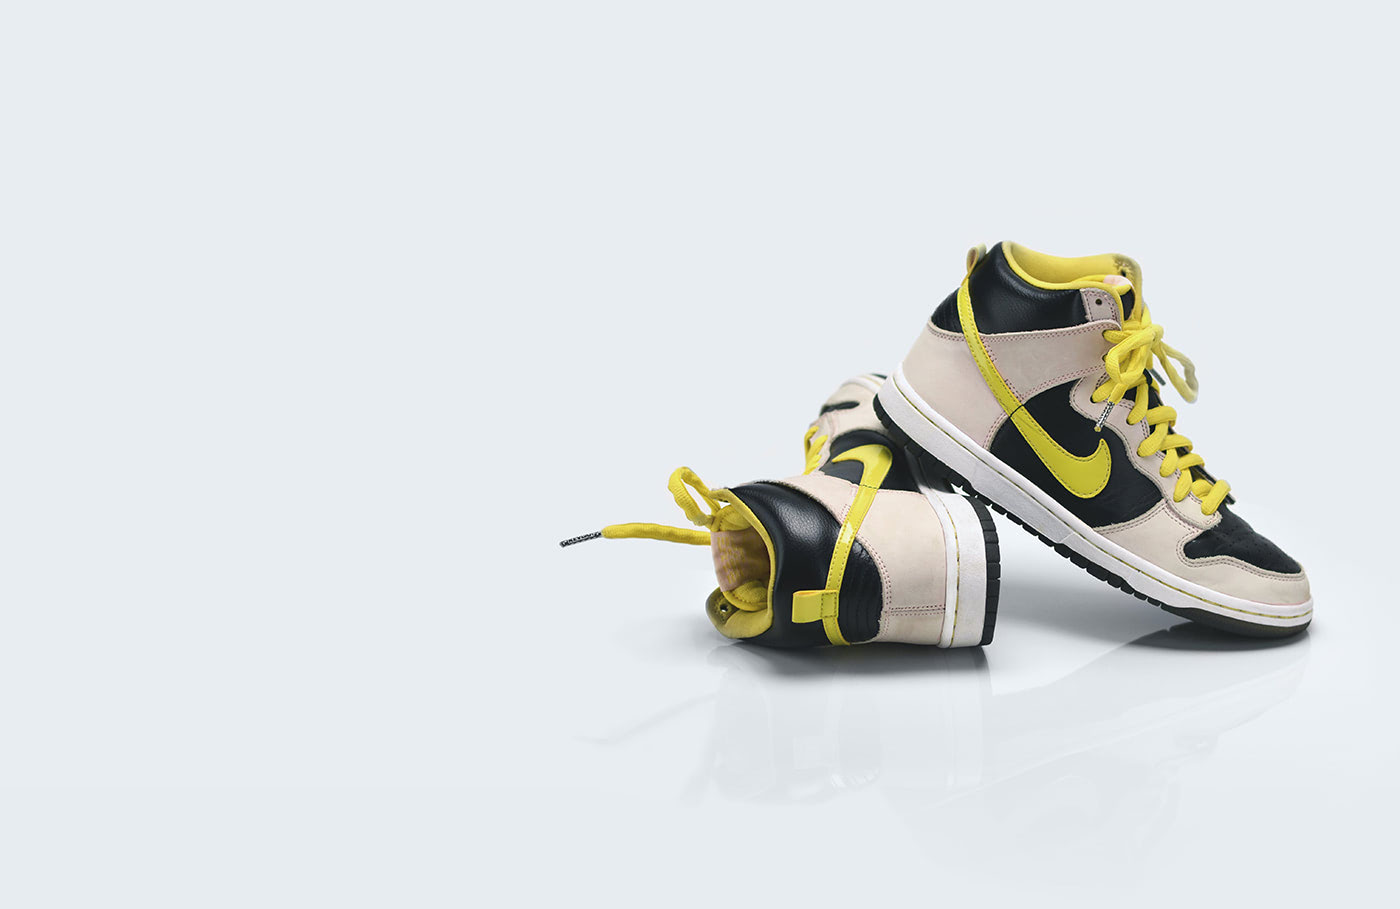
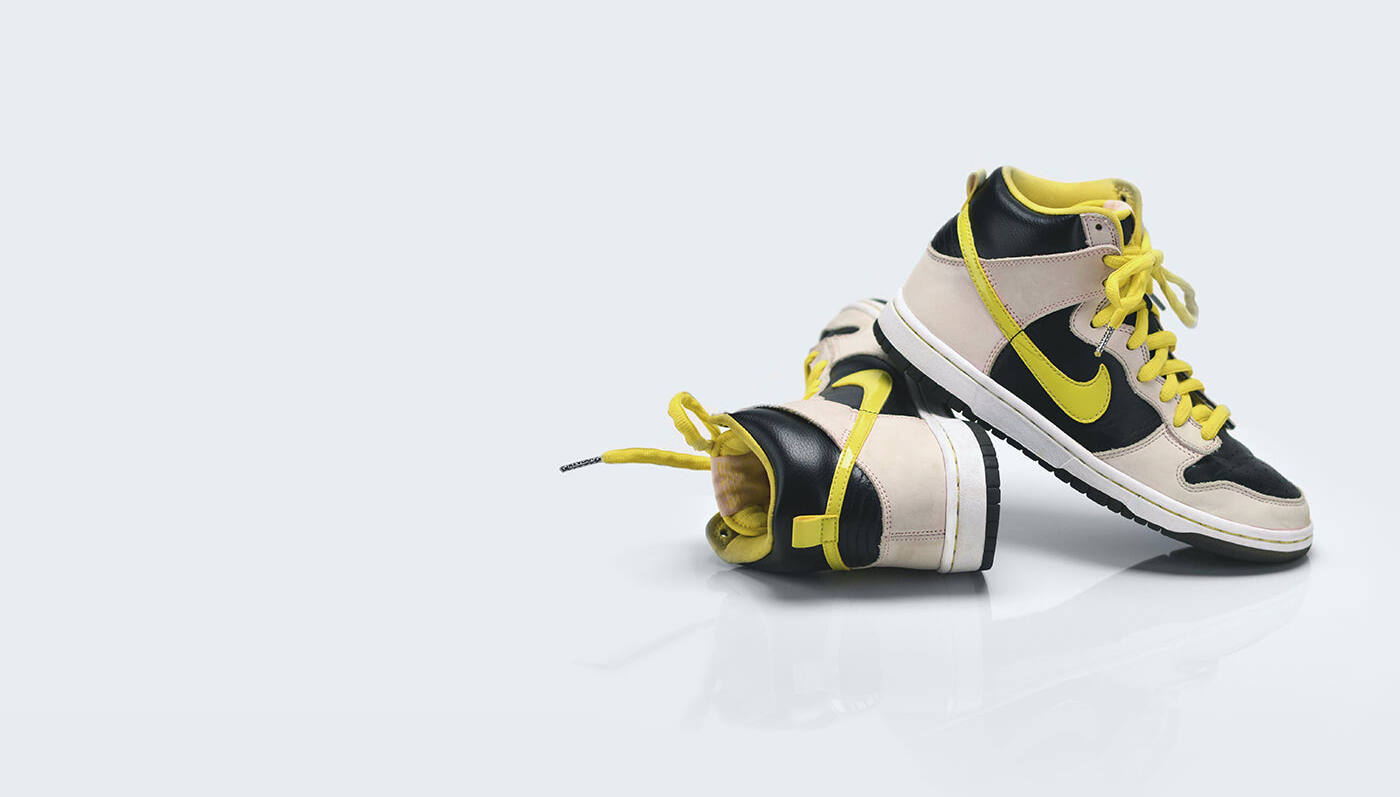
Tweaked image component

Changed region(s): [[0.3993, 0.2108, 0.9521, 0.7829]]

diff --git a/pages/index.vue b/pages/index.vue
@@ -3,7 +3,7 @@
 		<NuxtLink class="flex relative items-center justify-center" to="/products">
 			<SCImg
 				width="1400"
-				height="909"
+				height="797"
 				class="object-cover w-full lg:h-[580px]"
 				src="/images/hero.jpeg"
 				alt="Hero image"
